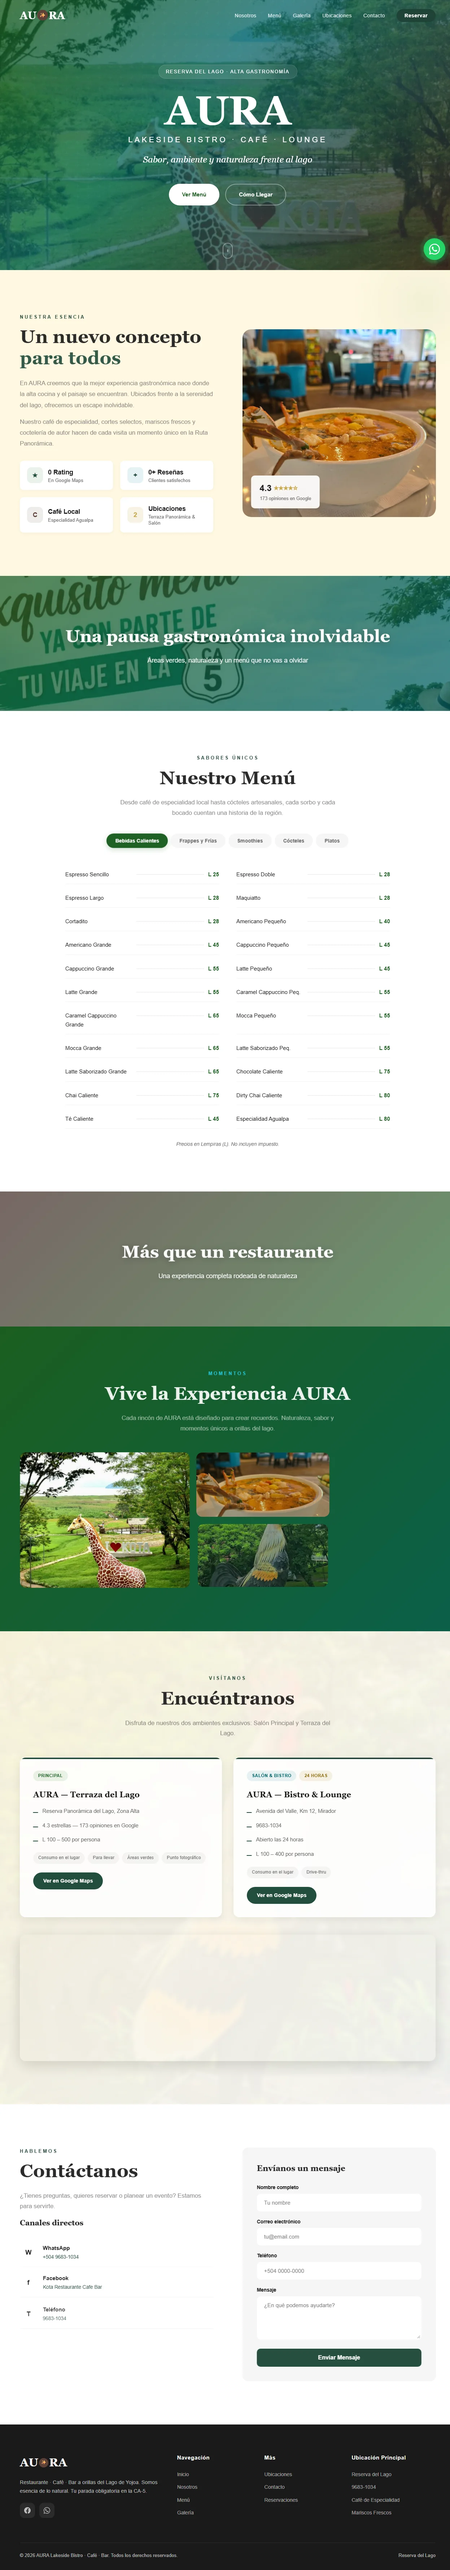
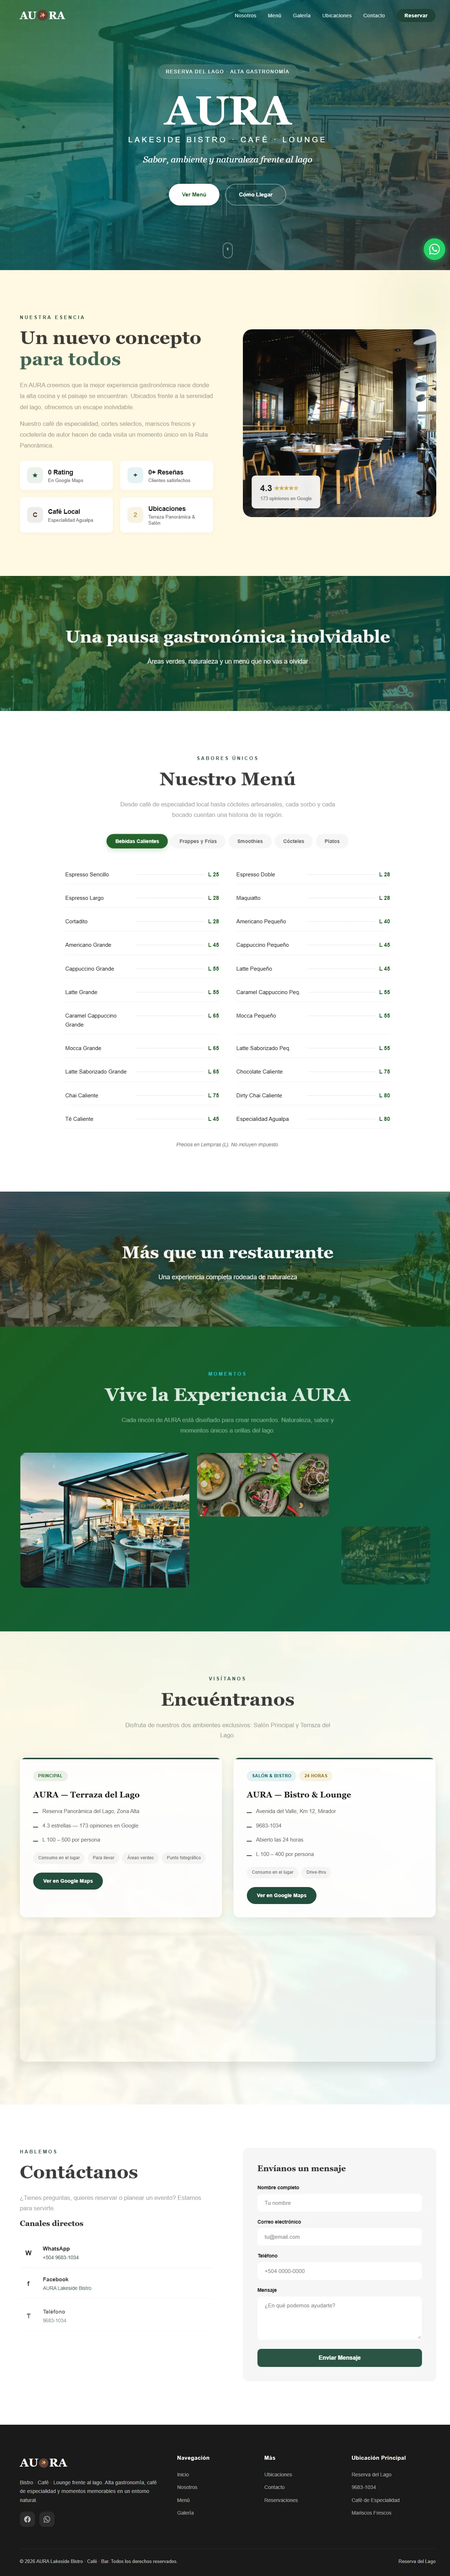
Replace giraffe and KOTA images with luxury lakeside terrace photography in AURA and MonteVerde

diff --git a/proyectos/kota/index.html b/proyectos/kota/index.html
@@ -139,7 +139,7 @@
 
     .hero-bg-image {
       position: absolute; inset: 0; z-index: 0;
-      background: url('img/309577934_1700180953697872_8005575703192463941_n-683x1024.jpg') center/cover no-repeat;
+      background: url('img/outdoor_dining.jpg') center/cover no-repeat;
       transform: scale(1.1);
       will-change: transform;
     }
@@ -325,7 +325,7 @@
     .menu { position: relative; padding: 120px 0; overflow: hidden; }
     .menu-bg {
       position: absolute; inset: 0; z-index: 0;
-      background: url('img/555961753_1352214622941156_5150434707241264583_n.jpg') center/cover no-repeat fixed;
+      background: url('img/gourmet_dish.jpg') center/cover no-repeat fixed;
     }
     .menu-bg-overlay {
       position: absolute; inset: 0; z-index: 1;
@@ -427,7 +427,7 @@
     .locations { position: relative; padding: 120px 0; overflow: hidden; }
     .locations-bg {
       position: absolute; inset: 0; z-index: 0;
-      background: url('img/images (1).jpg') center/cover no-repeat;
+      background: url('img/lakeside_view.jpg') center/cover no-repeat;
     }
     .locations-bg-overlay {
       position: absolute; inset: 0; z-index: 1;
@@ -700,7 +700,7 @@
           </div>
         </div>
         <div class="about-image reveal-right">
-          <img class="about-img-main" src="img/555961753_1352214622941156_5150434707241264583_n.jpg" alt="AURA Restaurante - Interior y platos" onerror="this.style.display='none';">
+          <img class="about-img-main" src="img/bistro_patio.jpg" alt="AURA Bistro - Interior y terraza">
           <div class="about-image-badge">
             <div class="rating">4.3 <span class="rating-stars">★★★★☆</span></div>
             <p>173 opiniones en Google</p>
@@ -712,7 +712,7 @@
 
   <!-- PARALLAX DIVIDER 1 -->
   <div class="parallax-divider" id="divider1">
-    <img class="parallax-img" src="img/734685078_1018342697612830_8463359805473263527_n.jpg" alt="AURA experiencia" loading="lazy">
+    <img class="parallax-img" src="img/terrace_lounge.jpg" alt="AURA experiencia nocturna y coctelería" loading="lazy">
     <div class="parallax-overlay" style="background: linear-gradient(135deg, rgba(27,94,32,0.75), rgba(0,96,100,0.7));"></div>
     <div class="parallax-content">
       <h3 class="reveal">Una pausa gastronómica inolvidable</h3>
@@ -812,7 +812,7 @@
 
   <!-- PARALLAX DIVIDER 2 -->
   <div class="parallax-divider" id="divider2">
-    <img class="parallax-img" src="img/images (2).jpg" alt="Caminos de AURA" loading="lazy">
+    <img class="parallax-img" src="img/lakeside_view.jpg" alt="AURA Terraza y Vistas al Lago" loading="lazy">
     <div class="parallax-overlay" style="background: linear-gradient(135deg, rgba(62,39,35,0.7), rgba(27,94,32,0.65));"></div>
     <div class="parallax-content">
       <h3 class="reveal">Más que un restaurante</h3>
@@ -830,29 +830,24 @@
       </div>
       <div class="gallery-grid">
         <div class="gallery-item reveal-scale">
-          <img src="img/309577934_1700180953697872_8005575703192463941_n-683x1024.jpg" alt="I Love AURA - Lago de Yojoa" loading="lazy" onerror="this.style.display='none'; this.nextElementSibling.style.display='flex';">
-          <div class="placeholder-img" style="display:none;">Vista al Lago</div>
-          <span class="gallery-item-label">Terraza AURA — Vista al Lago</span>
+          <img src="img/outdoor_dining.jpg" alt="Terraza Panorámica al Lago" loading="lazy">
+          <span class="gallery-item-label">Terraza Panorámica al Lago</span>
         </div>
         <div class="gallery-item reveal-scale reveal-delay-1">
-          <img src="img/555961753_1352214622941156_5150434707241264583_n.jpg" alt="Especialidades del Chef" loading="lazy" onerror="this.style.display='none'; this.nextElementSibling.style.display='flex';">
-          <div class="placeholder-img" style="display:none;">Sopa de Mariscos</div>
-          <span class="gallery-item-label">Sopa de Mariscos con Cangrejo</span>
+          <img src="img/gourmet_dish.jpg" alt="Gastronomía de Autor" loading="lazy">
+          <span class="gallery-item-label">Gastronomía de Autor</span>
         </div>
         <div class="gallery-item reveal-scale reveal-delay-2">
-          <img src="img/307851964_1700180637031237_7334344366546499621_n-683x1024.jpg" alt="Tucán escultura AURA" loading="lazy" onerror="this.style.display='none'; this.nextElementSibling.style.display='flex';">
-          <div class="placeholder-img" style="display:none;">Esculturas</div>
-          <span class="gallery-item-label">Esculturas Tropicales</span>
+          <img src="img/cafe_terrace.jpg" alt="Cafetería de Especialidad" loading="lazy">
+          <span class="gallery-item-label">Café de Especialidad y Bistro</span>
         </div>
         <div class="gallery-item reveal-scale reveal-delay-2">
-          <img src="img/images (1).jpg" alt="Jardines y Pérgolas" loading="lazy" onerror="this.style.display='none'; this.nextElementSibling.style.display='flex';">
-          <div class="placeholder-img" style="display:none;">Áreas Verdes</div>
-          <span class="gallery-item-label">Nuestras Áreas Verdes</span>
+          <img src="img/lakeside_bistro.jpg" alt="Salón Botánico AURA" loading="lazy">
+          <span class="gallery-item-label">Salón Botánico y Cenador</span>
         </div>
         <div class="gallery-item reveal-scale reveal-delay-3">
-          <img src="img/images (2).jpg" alt="Ambiente Nocturno" loading="lazy" onerror="this.style.display='none'; this.nextElementSibling.style.display='flex';">
-          <div class="placeholder-img" style="display:none;">Recorridos</div>
-          <span class="gallery-item-label">Recorrido Natural</span>
+          <img src="img/terrace_lounge.jpg" alt="Coctelería y Bar Lounge Nocturno" loading="lazy">
+          <span class="gallery-item-label">Coctelería y Lounge Nocturno</span>
         </div>
       </div>
     </div>
@@ -881,7 +876,7 @@
             <span class="service-tag">Áreas verdes</span>
             <span class="service-tag">Punto fotográfico</span>
           </div>
-          <a href="https://www.google.com/maps/search/AURA+Restaurante+Lago+de+Yojoa+Cortés" target="_blank" class="btn-map">Ver en Google Maps</a>
+          <a href="#ubicaciones" target="_blank" class="btn-map">Ver en Google Maps</a>
         </div>
         <div class="location-card reveal-right">
           <div class="badge-row">
@@ -897,11 +892,11 @@
             <span class="service-tag">Consumo en el lugar</span>
             <span class="service-tag">Drive-thru</span>
           </div>
-          <a href="https://www.google.com/maps/search/AURA+Restaurante+CA-5+Kilometro+166+Lago+de+Yojoa" target="_blank" class="btn-map">Ver en Google Maps</a>
+          <a href="#ubicaciones" target="_blank" class="btn-map">Ver en Google Maps</a>
         </div>
       </div>
       <div class="map-container reveal">
-        <iframe src="https://www.google.com/maps/embed?pb=!1m18!1m12!1m3!1d61847.94!2d-87.89!3d14.84!2m3!1f0!2f0!3f0!3m2!1i1024!2i768!4f13.1!3m3!1m2!1s0x8f6510b8e30ac4d1%3A0x2b1c4a7d8e8b3e2a!2sLago%20de%20Yojoa!5e0!3m2!1ses!2shn!4v1" allowfullscreen loading="lazy" referrerpolicy="no-referrer-when-downgrade" title="Mapa Lago de Yojoa"></iframe>
+        <iframe src="https://www.google.com/maps/embed?pb=!1m18!1m12!1m3!1d61847.94!2d-87.89!3d14.84!2m3!1f0!2f0!3f0!3m2!1i1024!2i768!4f13.1!3m3!1m2!1s0x8f6510b8e30ac4d1%3A0x2b1c4a7d8e8b3e2a!2sLago%20de%20Yojoa!5e0!3m2!1ses!2shn!4v1" allowfullscreen loading="lazy" referrerpolicy="no-referrer-when-downgrade" title="Ubicación AURA"></iframe>
       </div>
     </div>
   </section>
@@ -921,11 +916,11 @@
           </div>
           <div class="contact-item reveal reveal-delay-1">
             <div class="c-icon">f</div>
-            <div class="c-info"><h4>Facebook</h4><p><a href="https://www.facebook.com/Kota-Restaurante-Cafe-Bar-100175952656769/" target="_blank">Kota Restaurante Cafe Bar</a></p></div>
+            <div class="c-info"><h4>Facebook</h4><p><a href="https://facebook.com/auralakeside" target="_blank">AURA Lakeside Bistro</a></p></div>
           </div>
           <div class="contact-item reveal reveal-delay-2">
             <div class="c-icon">T</div>
-            <div class="c-info"><h4>Teléfono</h4><p><a href="tel:+5049555591">9683-1034</a></p></div>
+            <div class="c-info"><h4>Teléfono</h4><p><a href="tel:+50496831034">9683-1034</a></p></div>
           </div>
         </div>
         <div class="contact-form reveal-right">
@@ -948,15 +943,15 @@
       <div class="footer-grid">
         <div class="footer-brand">
           <div class="footer-logo"><span>AU</span><span class="logo-o">✨</span><span>RA</span></div>
-          <p>Restaurante · Café · Bar a orillas del Lago de Yojoa. Somos esencia de lo natural. Tu parada obligatoria en la CA-5.</p>
+          <p>Bistro · Café · Lounge frente al lago. Alta gastronomía, café de especialidad y momentos memorables en un entorno natural.</p>
           <div class="footer-socials">
-            <a href="https://www.facebook.com/Kota-Restaurante-Cafe-Bar-100175952656769/" target="_blank" aria-label="Facebook"><svg width="18" height="18" viewBox="0 0 24 24" fill="currentColor"><path d="M24 12.073c0-6.627-5.373-12-12-12s-12 5.373-12 12c0 5.99 4.388 10.954 10.125 11.854v-8.385H7.078v-3.47h3.047V9.43c0-3.007 1.792-4.669 4.533-4.669 1.312 0 2.686.235 2.686.235v2.953H15.83c-1.491 0-1.956.925-1.956 1.874v2.25h3.328l-.532 3.47h-2.796v8.385C19.612 23.027 24 18.062 24 12.073z"/></svg></a>
+            <a href="https://facebook.com/auralakeside" target="_blank" aria-label="Facebook"><svg width="18" height="18" viewBox="0 0 24 24" fill="currentColor"><path d="M24 12.073c0-6.627-5.373-12-12-12s-12 5.373-12 12c0 5.99 4.388 10.954 10.125 11.854v-8.385H7.078v-3.47h3.047V9.43c0-3.007 1.792-4.669 4.533-4.669 1.312 0 2.686.235 2.686.235v2.953H15.83c-1.491 0-1.956.925-1.956 1.874v2.25h3.328l-.532 3.47h-2.796v8.385C19.612 23.027 24 18.062 24 12.073z"/></svg></a>
             <a href="https://wa.me/50496831034" target="_blank" aria-label="WhatsApp"><svg width="18" height="18" viewBox="0 0 24 24" fill="currentColor"><path d="M17.472 14.382c-.297-.149-1.758-.867-2.03-.967-.273-.099-.471-.148-.67.15-.197.297-.767.966-.94 1.164-.173.199-.347.223-.644.075-.297-.15-1.255-.463-2.39-1.475-.883-.788-1.48-1.761-1.653-2.059-.173-.297-.018-.458.13-.606.134-.133.298-.347.446-.52.149-.174.198-.298.298-.497.099-.198.05-.371-.025-.52-.075-.149-.669-1.612-.916-2.207-.242-.579-.487-.5-.669-.51-.173-.008-.371-.01-.57-.01-.198 0-.52.074-.792.372-.272.297-1.04 1.016-1.04 2.479 0 1.462 1.065 2.875 1.213 3.074.149.198 2.096 3.2 5.077 4.487.709.306 1.262.489 1.694.625.712.227 1.36.195 1.871.118.571-.085 1.758-.719 2.006-1.413.248-.694.248-1.289.173-1.413-.074-.124-.272-.198-.57-.347m-5.421 7.403h-.004a9.87 9.87 0 01-5.031-1.378l-.361-.214-3.741.982.998-3.648-.235-.374a9.86 9.86 0 01-1.51-5.26c.001-5.45 4.436-9.884 9.888-9.884 2.64 0 5.122 1.03 6.988 2.898a9.825 9.825 0 012.893 6.994c-.003 5.45-4.437 9.884-9.885 9.884m8.413-18.297A11.815 11.815 0 0012.05 0C5.495 0 .16 5.335.157 11.892c0 2.096.547 4.142 1.588 5.945L.057 24l6.305-1.654a11.882 11.882 0 005.683 1.448h.005c6.554 0 11.89-5.335 11.893-11.893a11.821 11.821 0 00-3.48-8.413z"/></svg></a>
           </div>
         </div>
         <div><h4>Navegación</h4><ul class="footer-links"><li><a href="#hero">Inicio</a></li><li><a href="#nosotros">Nosotros</a></li><li><a href="#menu">Menú</a></li><li><a href="#galeria">Galería</a></li></ul></div>
         <div><h4>Más</h4><ul class="footer-links"><li><a href="#ubicaciones">Ubicaciones</a></li><li><a href="#contacto">Contacto</a></li><li><a href="https://wa.me/50496831034" target="_blank">Reservaciones</a></li></ul></div>
-        <div><h4>Ubicación Principal</h4><ul class="footer-links"><li><a href="#">Reserva del Lago</a></li><li><a href="tel:+50495555911">9683-1034</a></li><li><a href="#">Café de Especialidad</a></li><li><a href="#">Mariscos Frescos</a></li></ul></div>
+        <div><h4>Ubicación Principal</h4><ul class="footer-links"><li><a href="#">Reserva del Lago</a></li><li><a href="tel:+50496831034">9683-1034</a></li><li><a href="#">Café de Especialidad</a></li><li><a href="#">Mariscos Frescos</a></li></ul></div>
       </div>
       <div class="footer-bottom">
         <p>© 2026 AURA Lakeside Bistro · Café · Bar. Todos los derechos reservados.</p>

diff --git a/proyectos/la-naturaleza/index.html b/proyectos/la-naturaleza/index.html
@@ -95,7 +95,7 @@
     /* ---- HERO ---- */
     .hero {
       height: 100vh;
-      background: linear-gradient(rgba(27, 67, 50, 0.6), rgba(27, 67, 50, 0.7)), url('https://picsum.photos/id/28/1920/1080') center/cover;
+      background: linear-gradient(rgba(27, 67, 50, 0.6), rgba(27, 67, 50, 0.7)), url('img/resort_hero.jpg') center/cover;
       display: flex;
       align-items: center;
       justify-content: center;
@@ -259,7 +259,7 @@
 
     /* ---- SOSTENIBILIDAD ---- */
     .sustainability {
-      background: linear-gradient(rgba(27, 67, 50, 0.8), rgba(27, 67, 50, 0.9)), url('https://picsum.photos/id/30/1920/1080') center/cover;
+      background: linear-gradient(rgba(27, 67, 50, 0.8), rgba(27, 67, 50, 0.9)), url('img/resort_hero.jpg') center/cover;
       color: var(--white);
       text-align: center;
       padding: 80px 5%;
@@ -340,7 +340,7 @@
     <div class="grid-3">
       <!-- Habitación 1 -->
       <div class="card">
-        <img src="https://picsum.photos/id/1018/600/400" alt="Habitación Doble" class="card-img">
+        <img src="img/room_double.jpg" alt="Habitación Doble" class="card-img">
         <div class="card-content">
           <div class="card-price">Desde L. 2,200.00</div>
           <h3 class="card-title">Habitación Doble</h3>
@@ -354,7 +354,7 @@
       </div>
       <!-- Habitación 2 -->
       <div class="card">
-        <img src="https://picsum.photos/id/1039/600/400" alt="Habitación Triple" class="card-img">
+        <img src="img/room_triple.jpg" alt="Habitación Triple" class="card-img">
         <div class="card-content">
           <div class="card-price">Desde L. 2,900.00</div>
           <h3 class="card-title">Habitación Triple</h3>
@@ -368,7 +368,7 @@
       </div>
       <!-- Habitación 3 -->
       <div class="card">
-        <img src="https://picsum.photos/id/1025/600/400" alt="Habitación Mini Suite" class="card-img">
+        <img src="img/room_suite.jpg" alt="Habitación Mini Suite" class="card-img">
         <div class="card-content">
           <div class="card-price">Desde L. 2,300.00</div>
           <h3 class="card-title">Mini Suite</h3>
@@ -417,7 +417,7 @@
         <a href="#" target="_blank" class="btn btn-primary">Ver Menú Digital</a>
       </div>
       <div>
-        <img src="https://picsum.photos/id/111/800/1000" alt="Restaurante El Mirador" class="restaurant-img">
+        <img src="img/restaurant.jpg" alt="Restaurante El Mirador" class="restaurant-img">
       </div>
     </div>
   </section>
